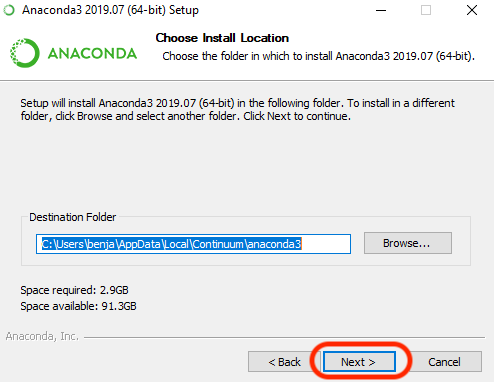
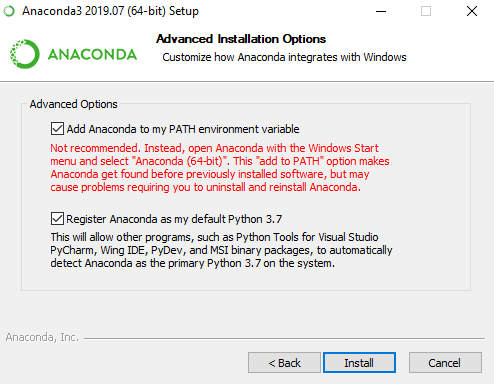
add path to anaconda install

diff --git a/WINDOWS.md b/WINDOWS.md
@@ -26,7 +26,7 @@ Leave the default installation location, click on "Next".
 
 ![](images/anaconda_6.png)
 
-Leave the advanced installation options as default and click on "Install"
+Check "Add Anaconda to my PATH environment variable" and click on "Install"  
 
 ![](images/anaconda_7.png)
 

diff --git a/_partials/win_anaconda.md b/_partials/win_anaconda.md
@@ -26,7 +26,7 @@ Leave the default installation location, click on "Next".
 
 ![](images/anaconda_6.png)
 
-Leave the advanced installation options as default and click on "Install"
+Check "Add Anaconda to my PATH environment variable" and click on "Install"  
 
 ![](images/anaconda_7.png)
 
